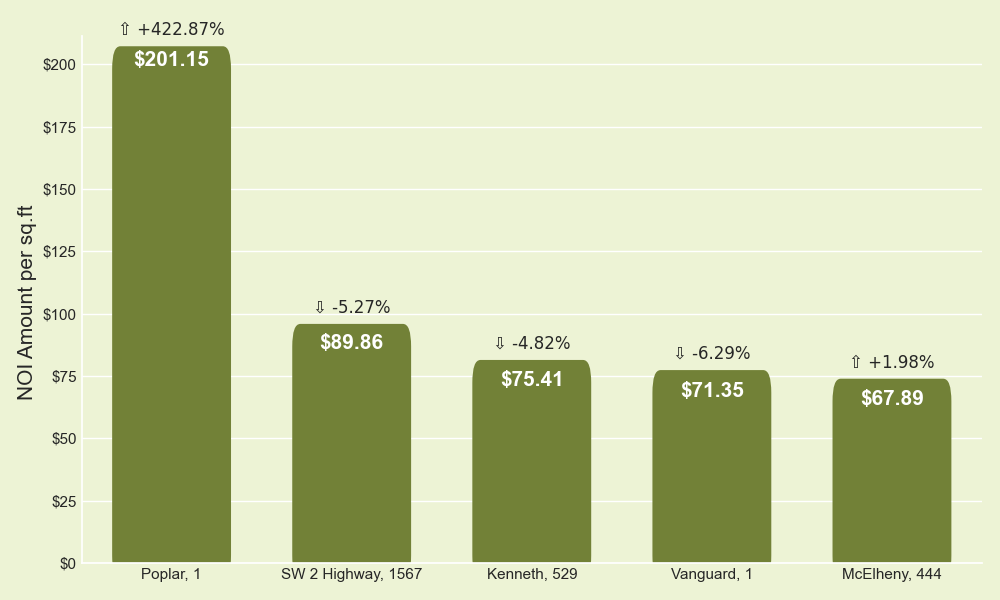
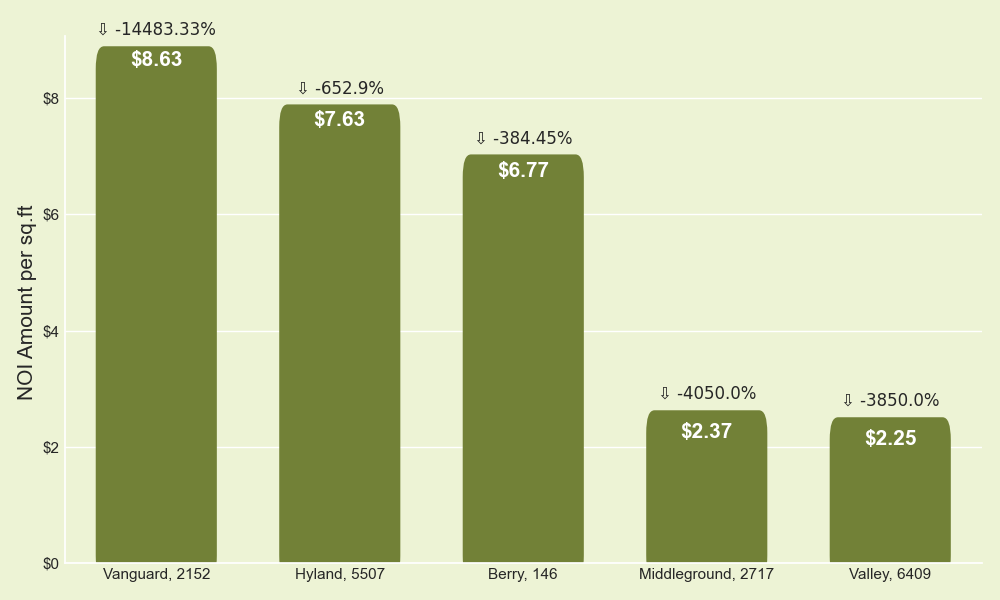
added code connection database and ran

Changed region(s): [[0.031, 0.03, 0.837, 0.99], [0.806, 0.57, 0.961, 0.75], [0.837, 0.93, 0.961, 0.99]]

diff --git a/main_dev.py b/main_dev.py
@@ -11,39 +11,38 @@ import plotly.graph_objects as go
 import math
 
 
-def fetch_data():
-    try:
-        server = 'epsql-srv-scioto-4see.database.windows.net'
-        database = 'qasciotodb'
-        username = 'sciotosqladmin'
-        password = 'Ret$nQ2stkl21'
-        cnxn = pyodbc.connect('DRIVER={SQL Server};SERVER='+server+';DATABASE='+database+';UID='+username+';PWD='+ password)
-        cursor = cnxn.cursor()
-        data = pd.read_sql("select * from [dbo].[viewIncomeStatement] where Ledger = 'AA' AND PropertyStatus='Active'",cnxn)
-        data['NetPostingPeriod'] = pd.to_datetime(data['NetPostingPeriod'])
-        return data
-    except Exception as e:
-            return 'From reading data'+ str(e)
+def sql_connection():
+    server = 'epsql-srv-scioto-4see.database.windows.net'
+    database = 'qasciotodb'
+    username = 'sciotosqladmin'
+    password = 'Ret$nQ2stkl21'
+    cnxn = pyodbc.connect(
+        'DRIVER={SQL Server};SERVER=' + server + ';DATABASE=' + database + ';UID=' + username + ';PWD=' + password)
+    return cnxn
 
-# server = 'epsql-srv-scioto-4see.database.windows.net'
-# database = 'qasciotodb'
-# username = 'sciotosqladmin'
-# password = 'Ret$nQ2stkl21'
-# cnxn = pyodbc.connect('DRIVER={SQL Server};SERVER='+server+';DATABASE='+database+';UID='+username+';PWD='+ password)
-# cursor = cnxn.cursor()
-# data = pd.read_sql("select * from [dbo].[viewIncomeStatement] where Ledger = 'AA' AND PropertyStatus='Active'",cnxn)
-# data['NetPostingPeriod'] = pd.to_datetime(data['NetPostingPeriod'])
-# sqft = pd.read_sql("select * from [dbo].[viewPropertyUnitLeaseDetails]",cnxn)
+
+connection1 = sql_connection()
+data = pd.read_sql("select * from [dbo].[viewIncomeStatement] where Ledger = 'AA' AND PropertyStatus='Active' AND L3 = 'OPERATING EXPENSES'",connection1)
+data['NetPostingPeriod'] = pd.to_datetime(data['NetPostingPeriod'])
+data["FiscalYear"] = pd.to_numeric(data["FiscalYear"])
+connection1.close()
 #
 
-
-
-data = pd.read_csv('C:\\Rohit_Data\\WORK\\Scioto_Work\\Dev_Environment\\Data\\viewIncomeStatement.csv')
-data['NetPostingPeriod'] = pd.to_datetime(data['NetPostingPeriod'])
-data = data[(data['Ledger'] == 'AA')]
-
-sqft = pd.read_csv('C:\\Rohit_Data\\WORK\\Scioto_Work\\Dev_Environment\\Data\\Viewpropertyunitlease.csv',usecols=['PropertyID','Property Description','Unit Square Feet'])
+connection = sql_connection()
+sqft = pd.read_sql("select * from [dbo].[viewPropertyUnitLeaseDetails]",connection)
 sqft.drop_duplicates(subset="PropertyID",inplace=True)
+connection.close()
+
+print(data.shape,sqft.shape)
+
+#
+# ============= Read from Files================
+# data = pd.read_csv('C:\\Rohit_Data\\WORK\\Scioto_Work\\Dev_Environment\\Data\\viewIncomeStatement.csv')
+# data['NetPostingPeriod'] = pd.to_datetime(data['NetPostingPeriod'])
+# data = data[(data['Ledger'] == 'AA')]
+
+# sqft = pd.read_csv('C:\\Rohit_Data\\WORK\\Scioto_Work\\Dev_Environment\\Data\\Viewpropertyunitlease.csv',usecols=['PropertyID','Property Description','Unit Square Feet'])
+# sqft.drop_duplicates(subset="PropertyID",inplace=True)
 
 
 
@@ -103,6 +102,7 @@ def persq_dataframe(merged_sqft):
 def top_5plot():
     data_2022 = join_data(data, sqft, '2022')
     final_sq_2022 = persq_dataframe(data_2022)
+    print(final_sq_2022.head())
 
 
     # ===============Finding persq ft NOI==========================
